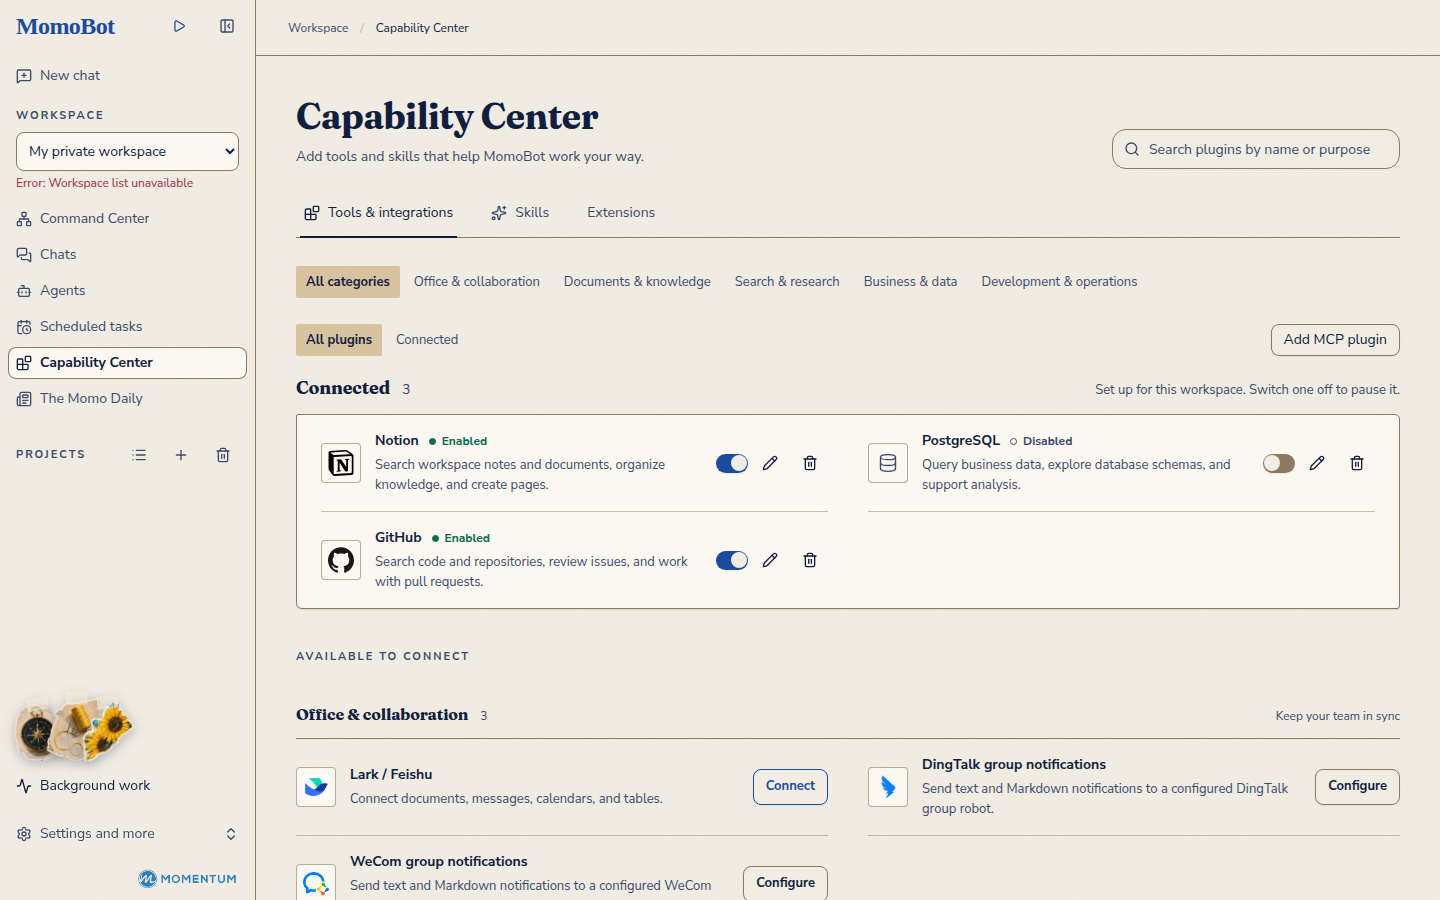
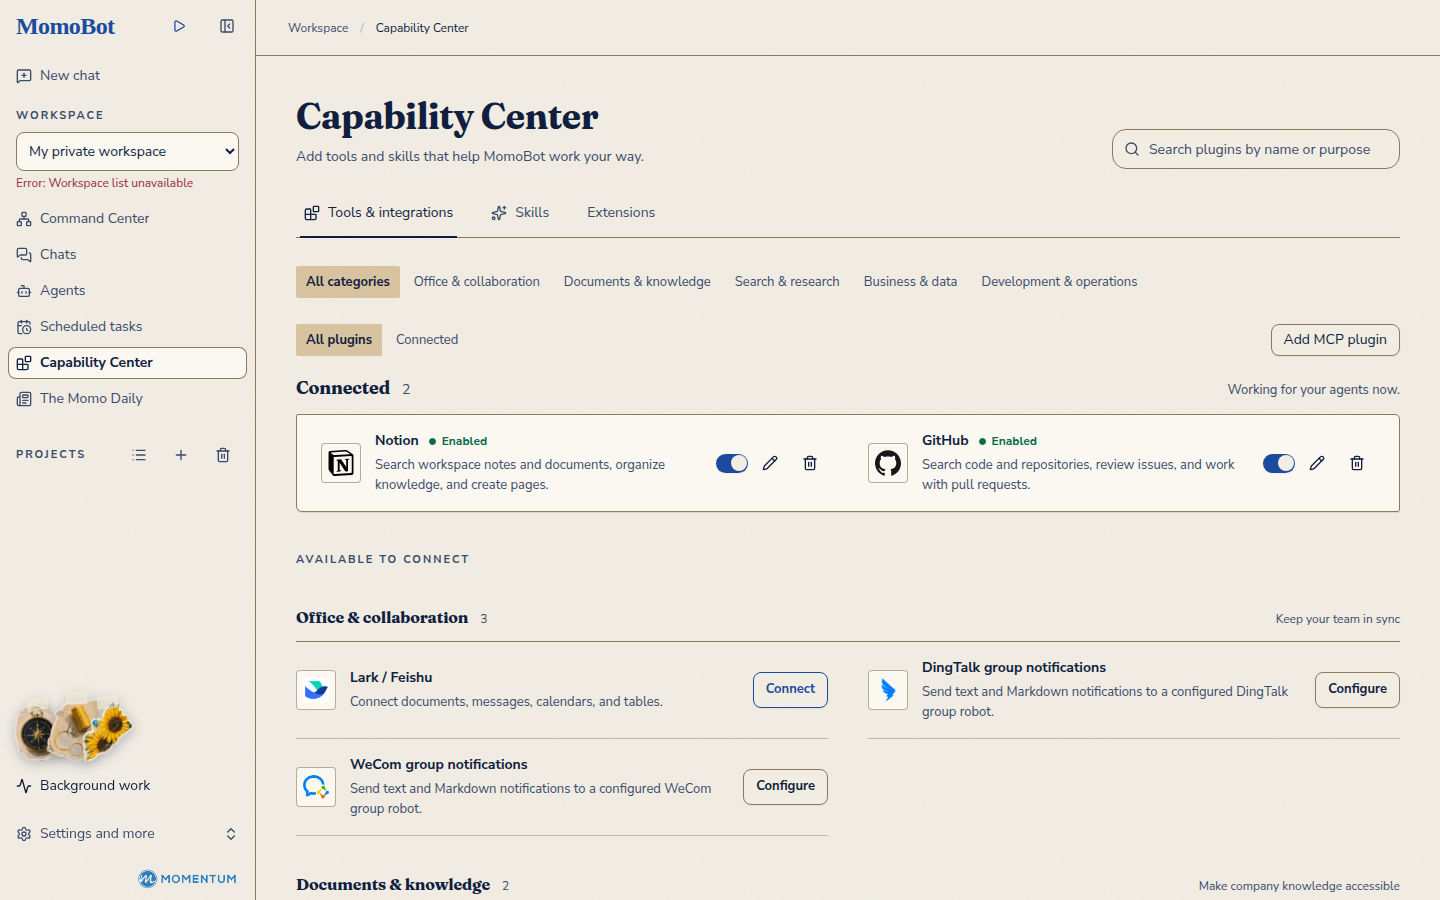
fix(d6): Connected means working, not merely installed (f26)
A row counts as connected only when it is installed, readable, not
waiting on an account, switched on and selectable (isPluginConnected).
Catalog rows needing an account, member MCP projections that are
disabled or unselectable, and switched-off admin MCP servers now wait
under "Available to connect". The Connected hint no longer promises a
switch the member rows do not have. New PluginGallery DOM test covers
both paths (red on the previous head, green now).

Claude-Session: https://claude.ai/code/session_01D9Q9qA9UF2wfLx8SyfAwpU

diff --git a/frontend/tests/unit/components/workspace/capabilities/plugin-gallery.dom.test.tsx b/frontend/tests/unit/components/workspace/capabilities/plugin-gallery.dom.test.tsx
@@ -1,0 +1,162 @@
+import { afterEach, expect, it, rs } from "@rstest/core";
+import { cleanup, render, screen, within } from "@testing-library/react";
+import type { PropsWithChildren } from "react";
+
+const mocks = rs.hoisted(() => ({
+  role: "user",
+  definitions: [] as unknown[],
+  items: {} as Record<string, unknown[]>,
+}));
+
+rs.mock("next/navigation", () => ({
+  usePathname: () => "/workspace/capabilities",
+  useRouter: () => ({ push: rs.fn(), replace: rs.fn(), refresh: rs.fn() }),
+  useSearchParams: () => new URLSearchParams(),
+}));
+
+rs.mock("@tanstack/react-query", () => ({
+  useQueries: ({ queries }: { queries: { queryKey: string[] }[] }) =>
+    queries.map((query) => ({
+      data: { items: mocks.items[query.queryKey[0]!] ?? [] },
+      isError: false,
+    })),
+  useQueryClient: () => ({ invalidateQueries: rs.fn() }),
+}));
+
+rs.mock("@/core/capabilities/hooks", () => ({
+  useCapabilityCatalog: () => ({
+    data: mocks.definitions,
+    isError: false,
+    isLoading: false,
+  }),
+  installationQuery: (adapter: string) => ({ queryKey: [adapter] }),
+}));
+
+rs.mock("@/core/auth/AuthProvider", () => ({
+  useAuth: () => ({ user: { system_role: mocks.role } }),
+}));
+
+rs.mock("@/core/static-mode", () => ({ isStaticWebsiteOnly: () => false }));
+
+rs.mock("@/components/workspace/capabilities/plugin-icon", () => ({
+  PluginIcon: () => null,
+}));
+
+rs.mock("@/components/workspace/capabilities/plugin-adapters", () => ({
+  pluginSettingsAdapters: {},
+}));
+
+// The administrator path hands its catalog rows to the MCP manager; render
+// them through the real directory so the connected split is what is tested.
+rs.mock("@/components/workspace/capabilities/mcp-plugin-manager", () => ({
+  MCPPluginManager: ({ catalog }: { catalog: PluginDirectoryEntry[] }) => (
+    <PluginDirectory entries={catalog} />
+  ),
+}));
+
+import {
+  PluginDirectory,
+  type PluginDirectoryEntry,
+} from "@/components/workspace/capabilities/plugin-directory";
+import { PluginGallery } from "@/components/workspace/capabilities/plugin-gallery";
+import { I18nProvider } from "@/core/i18n/context";
+
+function Wrapper({ children }: PropsWithChildren) {
+  return <I18nProvider initialLocale="en-US">{children}</I18nProvider>;
+}
+
+function manifest(id: string, adapter: string) {
+  return {
+    id,
+    adapter,
+    category: "business",
+    name: { "en-US": id },
+    description: { "en-US": `${id} tools` },
+    setup: { "en-US": "" },
+    aliases: [],
+    icon: null,
+  };
+}
+
+function installation(
+  plugin_id: string,
+  adapter: string,
+  extra: Record<string, unknown>,
+) {
+  return {
+    id: `install-${plugin_id}`,
+    plugin_id,
+    adapter,
+    name: plugin_id,
+    description: `${plugin_id} tools`,
+    installed: true,
+    enabled: true,
+    auth_status: "configured",
+    ...extra,
+  };
+}
+
+afterEach(() => {
+  cleanup();
+  mocks.role = "user";
+  mocks.definitions = [];
+  mocks.items = {};
+});
+
+function connectedNames() {
+  const sheet = screen.queryByTestId("plugin-connected");
+  if (!sheet) return [];
+  return within(sheet)
+    .getAllByRole("article")
+    .map((row) => within(row).getByRole("heading").textContent);
+}
+
+it("keeps an install that still needs an account out of Connected", () => {
+  mocks.role = "admin";
+  mocks.definitions = [
+    manifest("hubspot", "business"),
+    manifest("dingtalk", "business"),
+  ];
+  mocks.items = {
+    business: [
+      installation("hubspot", "business", { auth_status: "required" }),
+      installation("dingtalk", "business", { auth_status: "configured" }),
+    ],
+  };
+  render(<PluginGallery query="" />, { wrapper: Wrapper });
+  expect(connectedNames()).toEqual(["dingtalk"]);
+  const hubspot = screen
+    .getAllByRole("article")
+    .find((row) => row.textContent?.includes("hubspot"))!;
+  expect(within(hubspot).getByText("Account required")).toBeDefined();
+  expect(
+    within(hubspot).getByRole("button", { name: "Connect hubspot" }),
+  ).toBeDefined();
+});
+
+it("keeps switched-off, unselectable and unauthorized MCP tools out of Connected for members", () => {
+  mocks.definitions = [
+    manifest("github", "mcp"),
+    manifest("notion", "mcp"),
+    manifest("postgres", "mcp"),
+    manifest("jira", "mcp"),
+  ];
+  mocks.items = {
+    mcp: [
+      installation("github", "mcp", { auth_status: "connected" }),
+      installation("notion", "mcp", { auth_status: "required" }),
+      installation("postgres", "mcp", { enabled: false }),
+      installation("jira", "mcp", { selectable: false }),
+    ],
+  };
+  render(<PluginGallery query="" />, { wrapper: Wrapper });
+  expect(connectedNames()).toEqual(["github"]);
+  expect(screen.getAllByRole("article")).toHaveLength(4);
+});
+
+it("does not promise a switch in the Connected hint", () => {
+  mocks.definitions = [manifest("github", "mcp")];
+  mocks.items = { mcp: [installation("github", "mcp", {})] };
+  render(<PluginGallery query="" />, { wrapper: Wrapper });
+  expect(screen.queryByText(/switch/i)).toBeNull();
+});

diff --git a/frontend/src/components/workspace/capabilities/plugin-gallery.tsx b/frontend/src/components/workspace/capabilities/plugin-gallery.tsx
@@ -44,7 +44,7 @@ import {
   type PluginDirectoryEntry,
 } from "./plugin-directory";
 import { PluginIcon } from "./plugin-icon";
-import { getPluginStatus } from "./plugin-status";
+import { getPluginStatus, isPluginConnected } from "./plugin-status";
 
 function pluginActionLabel(action: PluginAction, t: Translations) {
   const copy = t.capabilities.directory;
@@ -122,7 +122,7 @@ export function PluginGallery({ query }: { query: string }) {
       return {
         id: plugin.id,
         category: plugin.category,
-        installed: !!status,
+        installed: isPluginConnected(status, unavailable),
         guide: plugin.adapter === "guide",
         search: `${Object.values(plugin.name).join(" ")} ${Object.values(plugin.description).join(" ")} ${plugin.aliases.join(" ")}`,
         node: (
@@ -167,7 +167,7 @@ export function PluginGallery({ query }: { query: string }) {
         id: item.id,
         category: manifest?.category ?? "custom",
         search: `${item.name} ${item.description}`,
-        installed: true,
+        installed: isPluginConnected(item),
         node: (
           <PluginRow
             name={item.name}

diff --git a/frontend/tests/e2e/capability-center.spec.ts b/frontend/tests/e2e/capability-center.spec.ts
@@ -284,7 +284,8 @@ test("plugin filters remain usable after an MCP refetch fails", async ({
     exact: true,
   });
   await installed.click();
-  await expect(page.locator("article")).toHaveCount(5);
+  // PostgreSQL is installed but switched off, so it is not Connected.
+  await expect(page.locator("article")).toHaveCount(4);
   await page
     .getByRole("switch", { name: "Enabled GitHub", exact: true })
     .click();
@@ -363,7 +364,7 @@ test("plugin categories, setup guides, and installed state remain distinct", asy
     page.getByText("没有找到匹配的内容", { exact: true }),
   ).toBeVisible();
   await page.getByRole("textbox", { name: "搜索插件名称或用途" }).fill("");
-  await expect(page.locator("article")).toHaveCount(5);
+  await expect(page.locator("article")).toHaveCount(4);
   await page.getByRole("button", { name: "全部插件", exact: true }).click();
   await page.setViewportSize({ width: 390, height: 844 });
   expect(

diff --git a/frontend/src/components/workspace/capabilities/plugin-status.ts b/frontend/src/components/workspace/capabilities/plugin-status.ts
@@ -32,3 +32,23 @@ export function getPluginStatus(
     return { label: t.capabilities.notInstalled, tone: "idle" };
   return { label: labels.notConfigured, tone: "idle" };
 }
+
+/**
+ * Whether a row belongs under Connected: installed, readable, not waiting on
+ * an account, and switched on and selectable. Anything short of that still
+ * needs someone, so it stays with what is available to connect.
+ */
+export function isPluginConnected(
+  status:
+    | Pick<CapabilityInstallation, "auth_status" | "enabled" | "selectable">
+    | undefined,
+  unavailable?: boolean,
+): boolean {
+  return (
+    !!status &&
+    !unavailable &&
+    status.auth_status !== "required" &&
+    status.enabled !== false &&
+    status.selectable !== false
+  );
+}

diff --git a/frontend/src/components/workspace/capabilities/mcp-plugin-manager.tsx b/frontend/src/components/workspace/capabilities/mcp-plugin-manager.tsx
@@ -289,7 +289,9 @@ function MCPServerList({
               id: `mcp:${name}`,
               category: metadata?.category ?? "custom",
               search: `${name} ${config.description ?? ""} ${metadata?.aliases.join(" ") ?? ""} ${Object.values(metadata?.name ?? {}).join(" ")} ${Object.values(metadata?.description ?? {}).join(" ")}`,
-              installed: true,
+              // A switched-off server is installed, not working: it waits
+              // with what is available until someone turns it back on.
+              installed: config.enabled,
               node: (
                 <PluginRow
                   name={displayName}

diff --git a/frontend/src/core/i18n/locales/en-US.ts b/frontend/src/core/i18n/locales/en-US.ts
@@ -83,7 +83,7 @@ export const enUS: Translations = {
       unknownStatus: "Status unavailable",
       notConnected: "Not connected",
       connectedSection: "Connected",
-      connectedHint: "Set up for this workspace. Switch one off to pause it.",
+      connectedHint: "Working for your agents now.",
       availableSection: "Available to connect",
       connect: "Connect",
       detailsShort: "Details",

diff --git a/frontend/src/core/i18n/locales/zh-CN.ts b/frontend/src/core/i18n/locales/zh-CN.ts
@@ -80,7 +80,7 @@ export const zhCN: Translations = {
       unknownStatus: "状态不可用",
       notConnected: "未连接",
       connectedSection: "已连接",
-      connectedHint: "已为此工作空间配置，关闭开关即可暂停。",
+      connectedHint: "你的 Agent 现在即可使用。",
       availableSection: "可接入",
       connect: "连接",
       detailsShort: "详情",

diff --git a/DESIGN.md b/DESIGN.md
@@ -181,7 +181,7 @@ Items 1, 2 and 5 need both `prefers-reduced-motion: no-preference` and the user'
   5. A four-fact strip: Active runs, Recorded runs, Errors & timeouts, Recorded tokens.
   6. The view. Mission Control shows the agent team (lead plus specialists) beside Latest assignments, then Also in your workspace links, then the footer ("No model calls from this dashboard").
 - **Selection.** Selecting a run opens its receipt drawer on the right.
-- **Catalogs lead with what works.** Capability Center puts connected tools first on their own sheet, then what is available by category, integrations MomoBot can configure before setup guides. A row's one action says what it does: Connect (an account flow, royal outline), Configure (settings the viewer may change, outline), Details or Setup guide (read only, quiet). An unconnected row carries no status tag; its section already says it.
+- **Catalogs lead with what works.** Capability Center puts connected tools first on their own sheet (installed, switched on, selectable and not waiting on an account; anything short of that waits with the rest), then what is available by category, integrations MomoBot can configure before setup guides. A row's one action says what it does: Connect (an account flow, royal outline), Configure (settings the viewer may change, outline), Details or Setup guide (read only, quiet). An unconnected row carries no status tag; its section already says it.
 
 ## States
 
